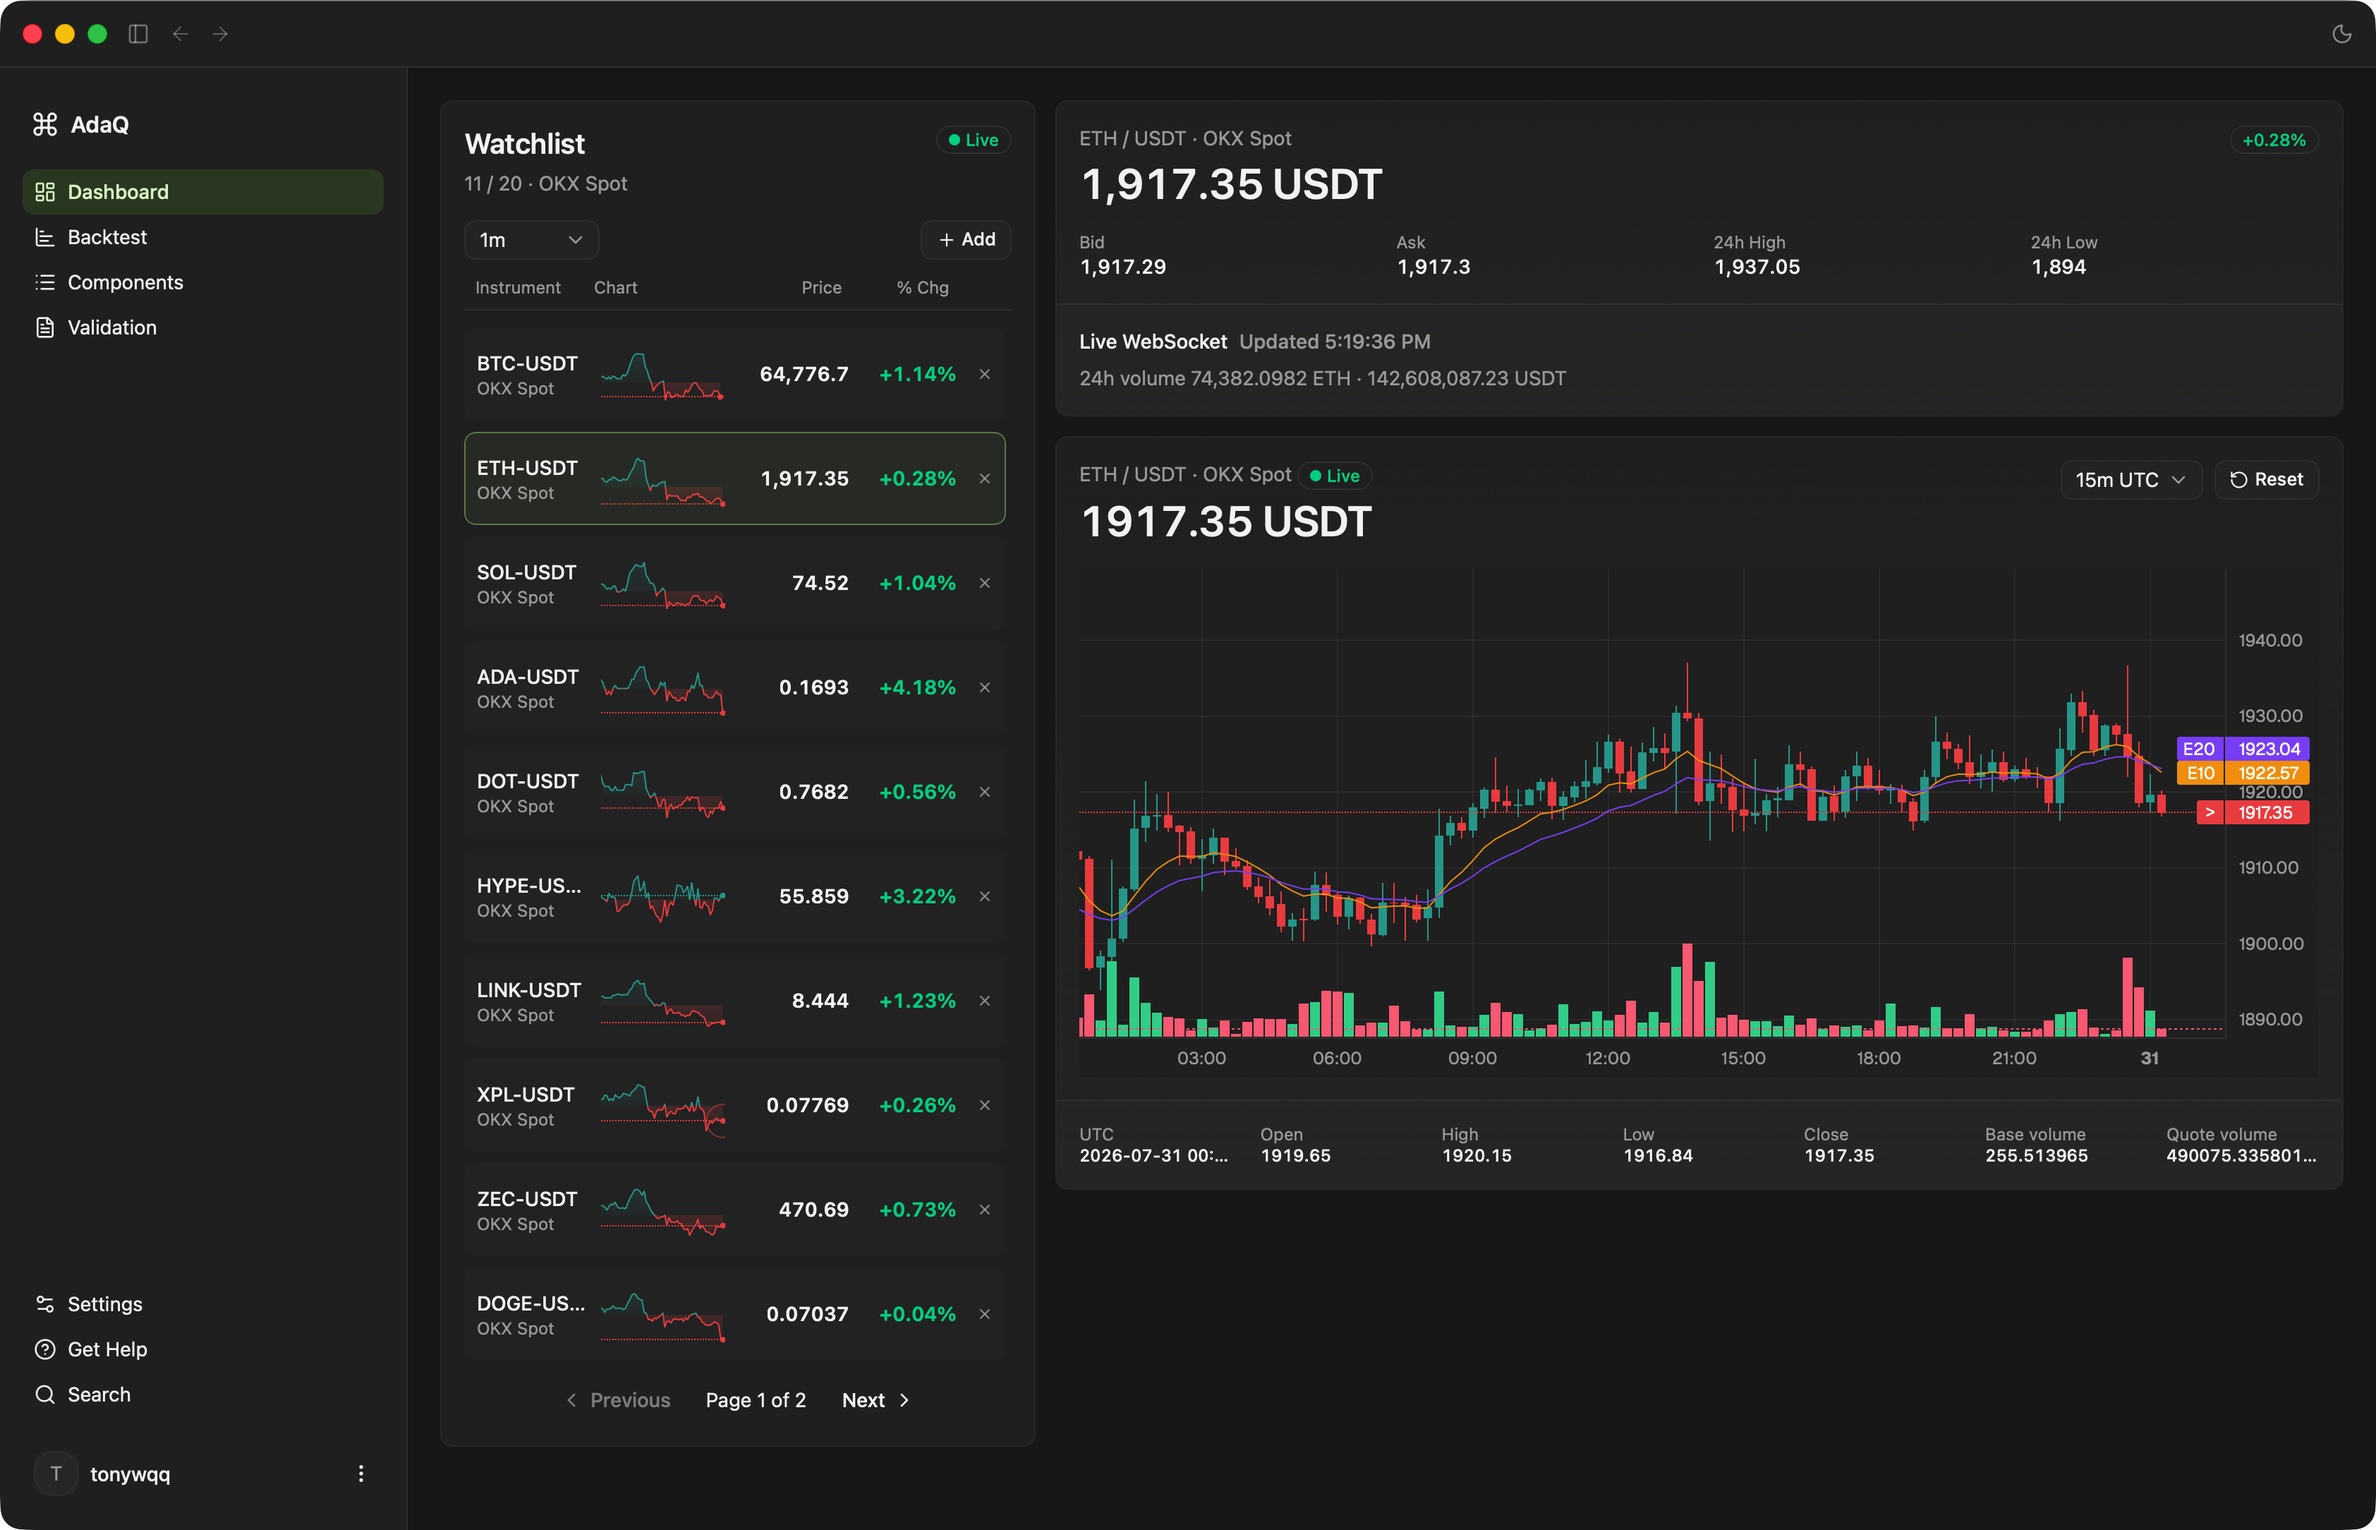
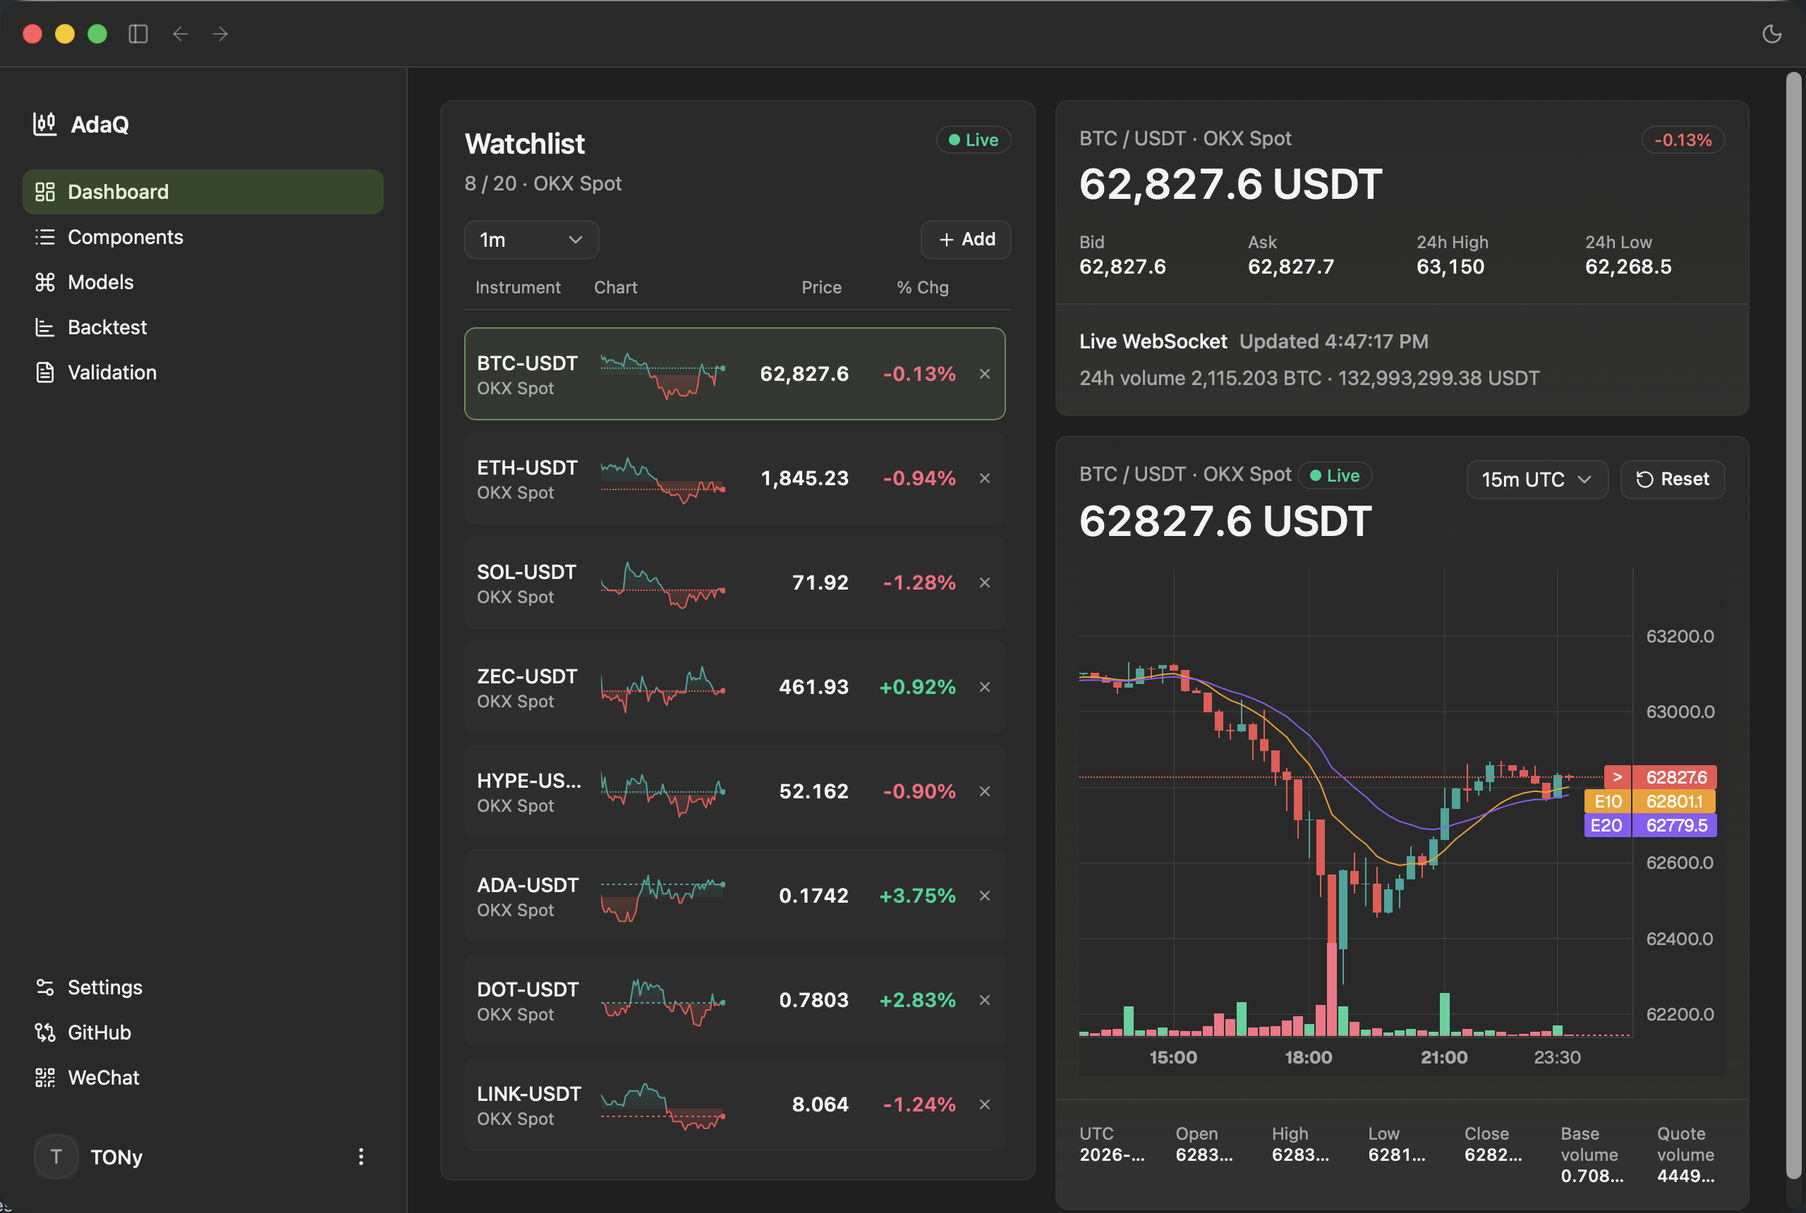
docs: update documentation screenshots and layout in README files

diff --git a/README.md b/README.md
@@ -19,11 +19,13 @@ AdaQ V1 is a local-first research, backtesting, and simulation desktop app. It d
 
 ## Screenshots
 
-| Dashboard | Backtest |
+| Dashboard | Components |
 |:---:|:---:|
-| ![Dashboard](screenshots/1-dashboard.png) | ![Backtest](screenshots/2-backtest.png) |
-| **Components** | **Validation** |
-| ![Components](screenshots/3-components.png) | ![Validation](screenshots/4-validation.png) |
+| ![Dashboard](screenshots/1-dashboard.png) | ![Components](screenshots/2-components.png) |
+| **Models** | **Backtest** |
+| ![Models](screenshots/3-models.png) | ![Backtest](screenshots/4-backtest.png) |
+| **Validation** |
+| ![Validation](screenshots/5-validation.png) |
 
 ## Implemented Milestones
 

diff --git a/README.zh-CN.md b/README.zh-CN.md
@@ -19,11 +19,13 @@ AdaQ V1 是本地优先的研究、回测与模拟桌面应用。它不执行真
 
 ## 截图预览
 
-| 仪表盘 | 回测 |
+| 仪表盘 | 组件库 |
 |:---:|:---:|
-| ![仪表盘](screenshots/1-dashboard.png) | ![回测](screenshots/2-backtest.png) |
-| **组件库** | **验证** |
-| ![组件库](screenshots/3-components.png) | ![验证](screenshots/4-validation.png) |
+| ![仪表盘](screenshots/1-dashboard.png) | ![组件库](screenshots/2-components.png) |
+| **模型** | **回测** |
+| ![模型](screenshots/3-models.png) | ![回测](screenshots/4-backtest.png) |
+| **验证** |
+| ![验证](screenshots/5-validation.png) |
 
 ## 已实现里程碑
 
